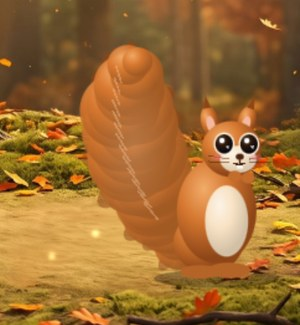
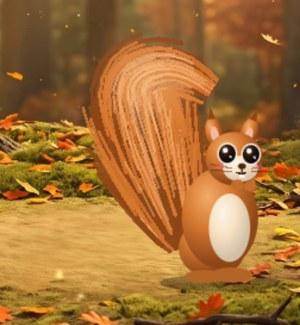
Kiwi walks like a real parrot, night pictures for worlds 18-27, all Home pictures
- Sidestepping on the branch: the leading foot lifts with curled toes, reaches
  sideways and grips again while the other slides under the body, alternating,
  with a small bob and sway on every step.
- Night pictures for Autumn Oak, City Park, Snowy Pines, Workshop, Arcade, Moon
  Base, Disco, Bubble Bath, Outer Space and Candy Clouds.
- Home cards for Nutty and Bolt from real renders; softer tail base.

Claude-Session: https://claude.ai/code/session_01NPnxEZNTjBwFPhztcdbQ9k

diff --git a/app/src/main/java/app/pulsify/engine/KiwiScene.kt b/app/src/main/java/app/pulsify/engine/KiwiScene.kt
@@ -84,6 +84,7 @@ class KiwiScene(private val context: Context) : Creature {
     private var sq = 1f; private var sqV = 0f
     private var blink = 1f; private var nextBlink = 3f
     private var stepPhase = 0f
+    private var footN = 0f; private var footF = 0f; private var footNT = 0f; private var footFT = 0f
 
     // Behaviour.
     private var act = Act.NONE
@@ -158,7 +159,7 @@ class KiwiScene(private val context: Context) : Creature {
         val bfrag = context.assets.open("shaders/bubble.frag").bufferedReader().use { it.readText() }
         program = Gl.program(vert, frag)
         for (n in listOf("uQuad", "uRes", "uTime", "uPos", "uSize", "uPx", "uFace", "uLean", "uHead", "uTurn", "uHang", "uFluff",
-            "uCrest", "uWing", "uBeak", "uEyeS", "uLegs", "uTailSway", "uSquash", "uSpecies", "uBody", "uBelly", "uHeadC", "uFaceC",
+            "uCrest", "uWing", "uBeak", "uEyeS", "uLegs", "uFeet", "uTailSway", "uSquash", "uSpecies", "uBody", "uBelly", "uHeadC", "uFaceC",
             "uWingC", "uEdgeC", "uTailC", "uBeakC", "uMark", "uAmb", "uRim", "uGlow", "uBranch", "uSeed", "uMillet", "uFx", "uDim")) {
             uni[n] = GLES20.glGetUniformLocation(program, n)
         }
@@ -664,16 +665,33 @@ class KiwiScene(private val context: Context) : Creature {
         }
 
         // ---- Integrate ----
-        // Sidestepping: small hops of the feet while x moves.
+        // Sidestepping like a real parrot on a perch: one foot lifts with curled toes, reaches
+        // sideways in the direction of travel and grips again while the other slides under the
+        // body; then they swap. The body bobs and sways a little on every step.
         val dxT = targetX - x
         vx += (dxT * 10f - vx * 6f) * dt
         x += vx * dt
-        if (abs(vx) > 0.04f && !flying) {
-            stepPhase += dt * 12f
-            val st = sin(stepPhase)
-            legNT = max(legNT, 0.45f * max(0f, st)); legFT = max(legFT, 0.45f * max(0f, -st))
-            hyT += 0.012f * abs(st)
-        }
+        val speed = abs(vx) / max(size, 0.05f)
+        if (speed > 0.06f && !flying) {
+            stepPhase += dt * (5f + min(speed, 1.5f) * 7f)
+            if (stepPhase > 1f) stepPhase -= 1f
+            val dirChar = (if (vx > 0f) 1f else -1f) * (if (face < 0f) -1f else 1f)
+            val stride = 0.045f
+            // The leading foot (on the side we move to) goes first.
+            val leadNear = dirChar > 0f
+            for (fIdx in 0..1) {
+                val ph = (stepPhase + (if ((fIdx == 0) == leadNear) 0f else 0.5f)) % 1f
+                val raise: Float; val off: Float
+                if (ph < 0.5f) { val k = ph / 0.5f; raise = sin(k * PI.toFloat()); off = (-stride + 2f * stride * easeF(k)) * dirChar }
+                else { val k = (ph - 0.5f) / 0.5f; raise = 0f; off = (stride - 2f * stride * k) * dirChar }
+                if (fIdx == 0) { legNT = max(legNT, raise * 0.75f); footNT = off } else { legFT = max(legFT, raise * 0.75f); footFT = off }
+            }
+            hyT += 0.01f * abs(sin(stepPhase * 2f * PI.toFloat()))
+            leanT += 0.06f * sin(stepPhase * 2f * PI.toFloat())
+            swayT += 0.12f * sin(stepPhase * 2f * PI.toFloat())
+        } else { footNT = 0f; footFT = 0f }
+        footN += (footNT - footN) * min(1f, dt * 18f)
+        footF += (footFT - footF) * min(1f, dt * 18f)
         if (act == Act.NONE && !following && !dancing && sinceTouch > 4f) targetX *= max(0f, 1f - dt * 0.15f)
 
         val kf = min(1f, dt * (if (flying) 3.5f else 8f))
@@ -779,6 +797,7 @@ class KiwiScene(private val context: Context) : Creature {
         GLES20.glUniform1f(u("uBeak"), beak.coerceIn(0f, 1f))
         GLES20.glUniform3f(u("uEyeS"), eyeOpen, eyeMode, eyeLook)
         GLES20.glUniform2f(u("uLegs"), legNear, legFar)
+        GLES20.glUniform2f(u("uFeet"), footN, footF)
         GLES20.glUniform1f(u("uTailSway"), tailSway)
         GLES20.glUniform1f(u("uSquash"), sq)
         GLES20.glUniform1f(u("uSpecies"), species.toFloat())

diff --git a/app/src/main/java/app/pulsify/engine/NuttyScene.kt b/app/src/main/java/app/pulsify/engine/NuttyScene.kt
@@ -433,13 +433,13 @@ class NuttyScene(context: Context) : CanvasCreature(context) {
         val p = ink.path; p.reset()
         for (i in 0..tn) { tailAt(i / tn.toFloat(), 0.8f); if (i == 0) p.moveTo(tmp[0], tmp[1]) else p.lineTo(tmp[0], tmp[1]) }
         for (i in tn downTo 0) { tailAt(i / tn.toFloat(), -0.8f); p.lineTo(tmp[0], tmp[1]) }
-        p.close(); c.drawPath(p, ink.color(col.dark))
+        p.close(); c.drawPath(p, ink.color(Ink.darken(col.tail, 0.18f)))
         // Three layers of strands: dark outer fluff, main colour, light highlights.
         var j = 0
         for (pass in 0..2) {
             val m = if (pass == 0) 90 else if (pass == 1) 110 else 60
             val colr = if (pass == 0) col.dark else if (pass == 1) col.tail else col.light
-            val alpha = if (pass == 2) 0.5f else if (pass == 1) 0.8f else 0.9f
+            val alpha = if (pass == 2) 0.5f else if (pass == 1) 0.85f else 0.6f
             val st = ink.stroke(colr, u * (if (pass == 2) 0.028f else if (pass == 1) 0.04f else 0.055f), alpha)
             for (q in 0 until m) {
                 val o = strandO[j] * (if (pass == 2) 0.55f else 1f); val k0 = strandK0[j]; val k1 = min(1f, k0 + strandLen[j])
